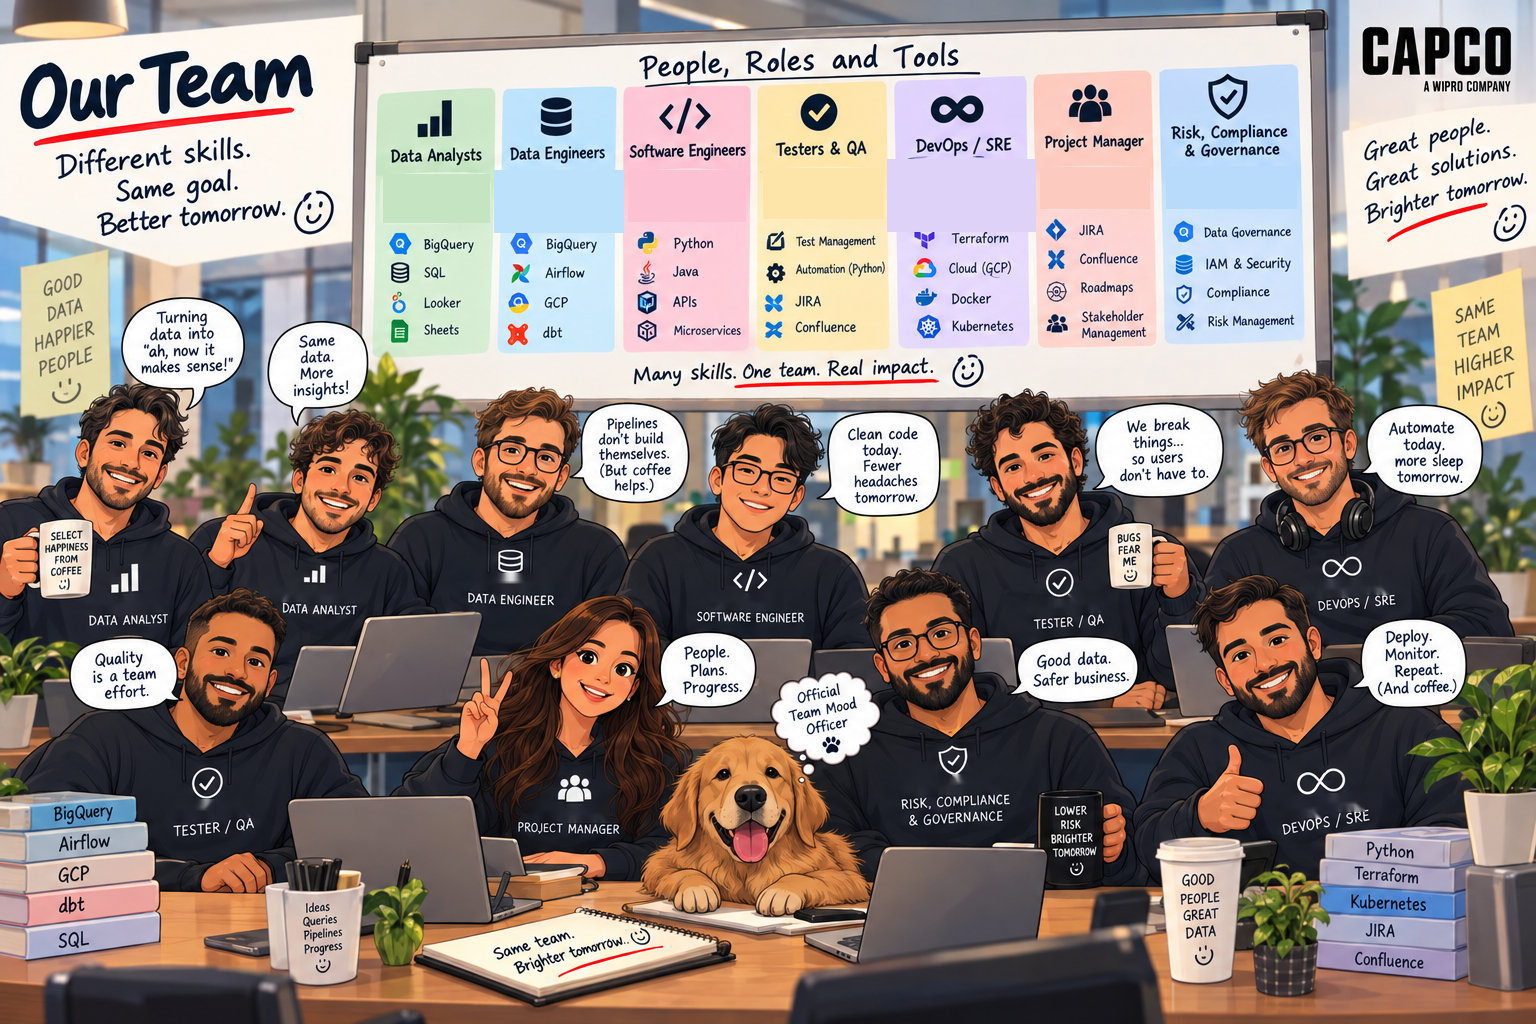
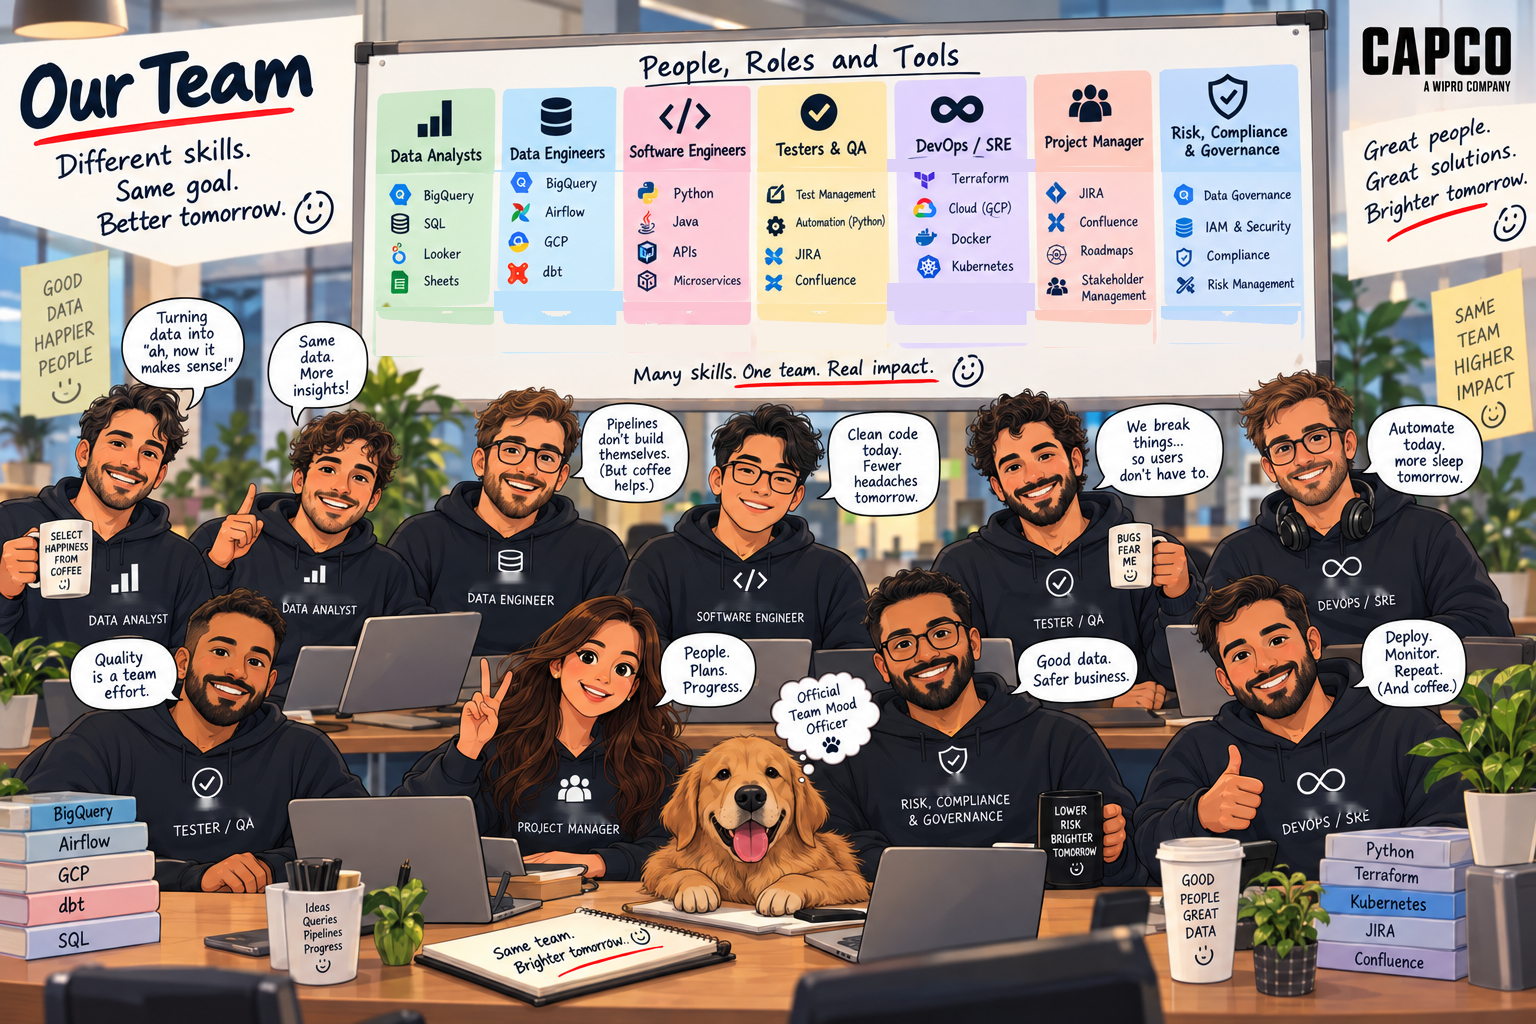
Slide 1: remove names by recomposing the whiteboard columns instead of blanking badges
Claude-Session: https://claude.ai/code/session_01LCCqAd9Y5JQ2y1siSFa5nV

diff --git a/render/README.md b/render/README.md
@@ -49,10 +49,11 @@ chip, bug gag, scene-8 labels) are lower-thirds over the picture.
 
 Slide 1 is not from the storyboard: it is the separate "Our Team — People,
 Roles and Tools" illustration (`our_team_clean.png`), with the illustration's
-fictional names removed — the whiteboard name badges were filled with each
-column's background colour and the names under each person were inpainted
-(OpenCV Telea) after locating them with Tesseract OCR; role labels and tools
-were kept.
+fictional names removed. Names were located with Tesseract OCR; on the
+whiteboard each column's tool list was shifted up into the name badge's place
+and the column given a common, shorter bottom (its own rounded top corners
+flipped), so no blank block remains; the names under each person were
+inpainted (OpenCV Telea). Role labels and tools were kept.
 
 ## Pipeline
 
